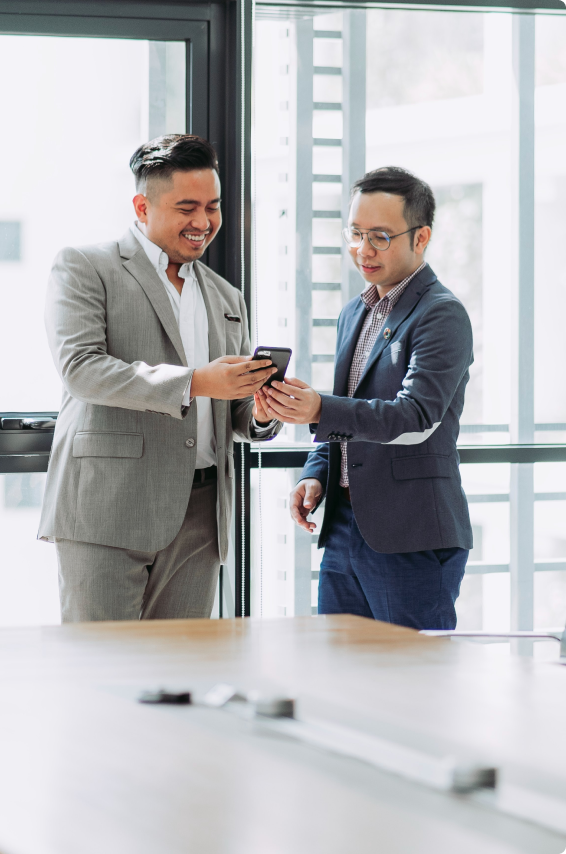
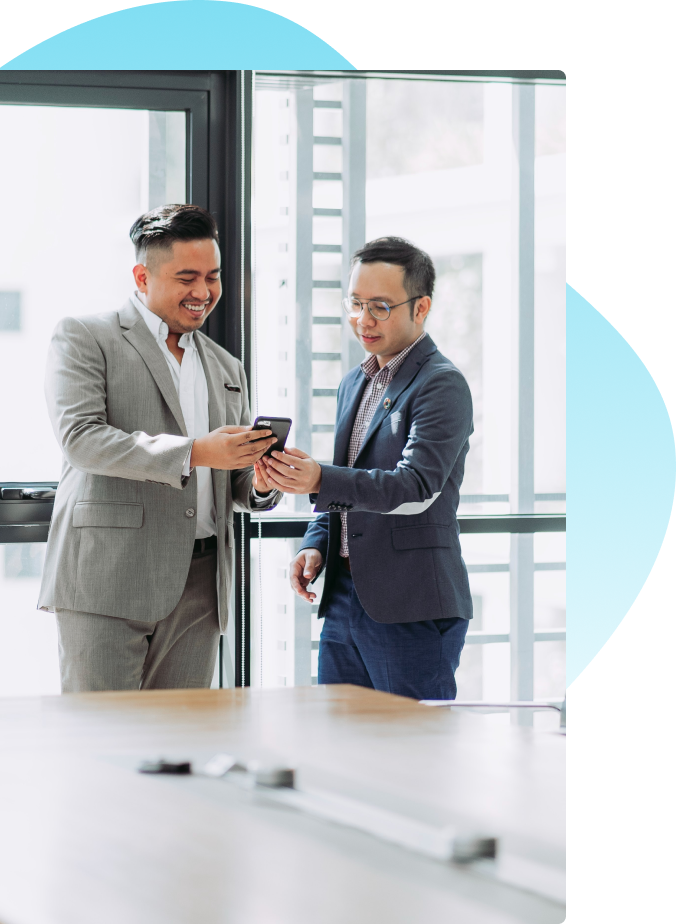
sessao produtos layout terminado

diff --git a/index.html b/index.html
@@ -34,14 +34,14 @@
           <div class="sidebar offcanvas offcanvas-start" tabindex="-1" id="offcanvasNavbar" aria-labelledby="offcanvasNavbarLabel">
             <!-- Sidebar header-->
             <div class="offcanvas-header">
-                <img src="images/logotrads.png" alt="Logo" class="logo-img-offcanvas">
+                <img src="images/logotrads.png" alt="Logo" href="index.html" class="logo-img-offcanvas">
               <button type="button" class="btn-close" data-bs-dismiss="offcanvas" aria-label="Close"></button>
             </div>
             <!-- Sidebar header-->
             <div class="offcanvas-body">
               <ul class="navbar-nav justify-content-center flex-grow-1 pe-3">
                 <li class="nav-item mx-4">
-                  <a class="nav-link active" aria-current="page" href="#home">QUEM SOMOS</a>
+                  <a class="nav-link active" aria-current="page" href="#quemsomos">QUEM SOMOS</a>
                 </li>
                 <li class="nav-item mx-4">
                   <a class="nav-link" href="#feedbacks">FEEDBACKS</a>
@@ -62,16 +62,17 @@
         <img src="images/divider.png" alt="Imagem" class="img-fluid">
     </div>
 
-    <!-- Hero Section -->
+    <!-- Home -->
     <section class="text-light p-5 text-center text-sm-start" id="home">
+
         <div class="container py-5">
-            <div class="d-sm-flex align-item-center justify-content-between py-5 ">
+            <div class="d-sm-flex align-items-center justify-content-between py-5 ">
                 <div>
                     <h1 class="text-custom">Somos a maior corretora de <br>plano de saúde da Paraíba.</h1>
                     <p class=" lead p-custom my-4">Líder em vendas de plano de saúde e benefícios para sua empresa.</p>
                     <div class="row align-items-end mt-5 ">
                           <div class="col-md  mt-5">
-                            <h1 class="text-costum-col text-md-smallest">+6</h1>
+                            <h1 class="text-costum-col ">+6</h1>
                             <p class="p-costum-col">ANOS NO MERCADO</p>
                           </div>
 
@@ -133,15 +134,70 @@
 
                     <div class="d-grid gap-2 mt-4">
                         <button class="btn btn-primary" type="button">Download</button>
-                      </div>
+                    </div>
+                </div>
+            </div>
+        </div>
+    </section>
 
-    
+    <!-- quem somos -->
+    <section class="p-5" id="quemsomos"> 
+        <div class="container py-5">
+            <div class="row justify-content-between align-items-center">
+                <div class="col-md">
+                    <img src="images/two-men.png" alt="Imagem" class="img-fluid">
+                </div>
+                <div class="col-md mt-sm-5">
+                    <h2 class="text-custom-quem-somos">Garanta seu futuro com segurança e tranquilidade.</h2>
+                    <img src="images/Rectangle.png" alt="Imagem" class="img-fluid mt-3">
+                    <p class="p-custom-quem-somos mt-3">Vulputate lobortis feugiat quam in tempus. Augue in congue fermentum nibh ut quisque. Aliquam id bibendum in ut velit placerat diam vulputate. Dolor elementum aliquet arcu nascetur arcu pretium ut. Sodales sit pellentesque in cras amet a nam odio. Dis phasellus faucibus vel dignissim urna. Risus bibendum mi cursus sit non. Id sit ipsum eu lacus scelerisque pharetra ultrices. Sit sed viverra tincidunt enim consectetur mauris nulla proin eu. Amet erat volutpat non at. Ac tellus aenean sed tellus integer semper.</p>
+                </div>
+            </div>
+        </div>
+    </section>
+
+    <!-- produtos -->
+    <section class="p-5 bg-light" id="produtos"> 
+        <div class="container py-5">
+            <div class="row justify-content-between align-items-center">
+                <div class="col-md mt-sm-5">
+                    <h2 class="text-custom-quem-somos">Seguro de Vida</h2>
+                    <p class="p-custom-quem-somos mt-3">O seguro de vida oferece uma tranquilidade extra, pois você pode ter certeza de que, mesmo em caso de doença ou morte, os seus entes queridos estarão protegidos. Não perca tempo e contrate um seguro vida.</p>
+                    <a href="#" class="btn btn-primary mt-3 custom-button-produto">Simular Cotação</a>
+                </div>
+                <div class="col-md">
+                    <img src="images/mom-with-kid.png" alt="Imagem" class="img-fluid " style="border-radius: 10px;">
+                </div>
+            </div>
+        </div>
+
+        <div class="container py-5">
+            <div class="row justify-content-between align-items-center">
+                <div class="col-md">
+                    <img src="images/mom-with-kid.png" alt="Imagem" class="img-fluid " style="border-radius: 10px;">
+                </div>
+                <div class="col-md mt-sm-5">
+                    <h2 class="text-custom-quem-somos">Seguro de Vida</h2>
+                    <p class="p-custom-quem-somos mt-3">O seguro de vida oferece uma tranquilidade extra, pois você pode ter certeza de que, mesmo em caso de doença ou morte, os seus entes queridos estarão protegidos. Não perca tempo e contrate um seguro vida.</p>
+                    <a href="#" class="btn btn-primary mt-3 custom-button-produto">Simular Cotação</a>
+                </div>
+            </div>
+        </div>
+
+        <div class="container py-5">
+            <div class="row justify-content-between align-items-center">
+                <div class="col-md mt-sm-5">
+                    <h2 class="text-custom-quem-somos">Seguro de Vida</h2>
+                    <p class="p-custom-quem-somos mt-3">O seguro de vida oferece uma tranquilidade extra, pois você pode ter certeza de que, mesmo em caso de doença ou morte, os seus entes queridos estarão protegidos. Não perca tempo e contrate um seguro vida.</p>
+                    <a href="#" class="btn btn-primary mt-3 custom-button-produto">Simular Cotação</a>
+                </div>
+                <div class="col-md">
+                    <img src="images/mom-with-kid.png" alt="Imagem" class="img-fluid" style="border-radius: 10px;">
                 </div>
             </div>
         </div>
 
     </section>
-    
 
    
    

diff --git a/styles.css b/styles.css
@@ -68,3 +68,35 @@
     background-color: #00BDE7;
     border: none;
 }
+
+/* quem somos section */
+
+.text-custom-quem-somos{
+    color: #FFF;
+    font-family: Libre Baskerville;
+    font-size: 50px;
+    font-style: normal;
+    font-weight: 700;
+    line-height: 109.9%; /* 65.94px */
+}
+
+.p-custom-quem-somos{
+    color: #FFF;
+    font-family: Public Sans;
+    font-size: 18px;
+    font-style: normal;
+    font-weight: 400;
+    line-height: 27px; /* 150% */
+}
+
+.img-quem-somos{
+    position: absolute;
+    left:0;
+}
+
+/* Produtos */
+
+.bg-light {
+    border-top-left-radius: 200px;
+    border-bottom-right-radius: 200px;
+}
